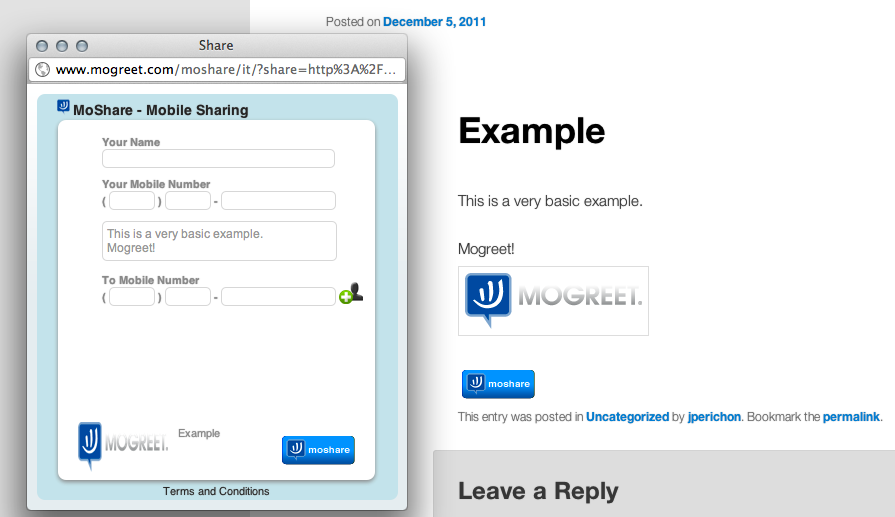
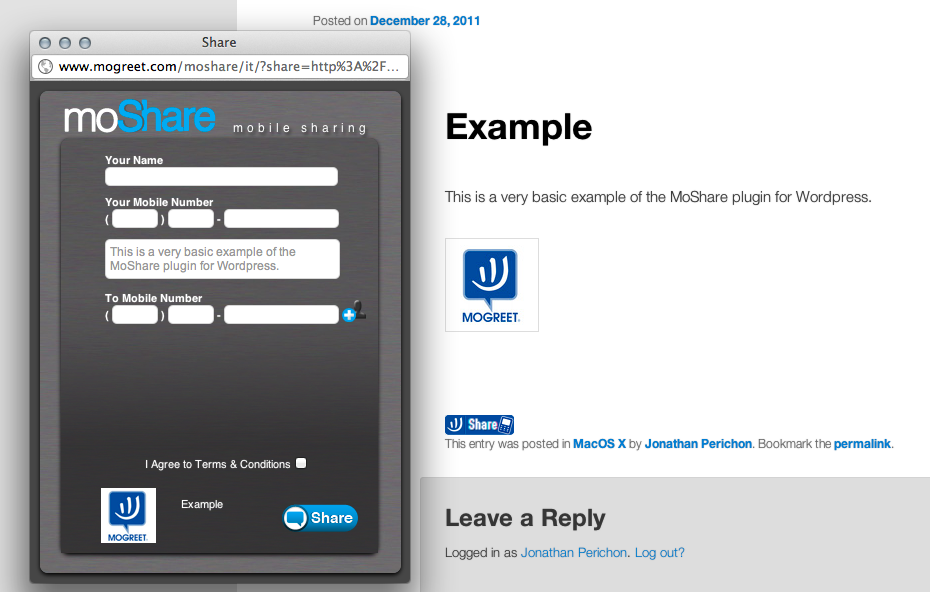
do not use smileys as thumbnails and update screenshots
git-svn-id: https://plugins.svn.wordpress.org/moshare/trunk@481670 b8457f37-d9ea-0310-8a92-e5e31aec5664

diff --git a/moshare.php b/moshare.php
@@ -9,7 +9,7 @@
     Contributors :
         Jonathan Perichon <jonathan.perichon@gmail.com>
     License: GPL2
-*/
+ */
 
 /*  Copyright 2011  Mogreet
 
@@ -25,7 +25,7 @@
     You should have received a copy of the GNU General Public License
     along with this program; if not, write to the Free Software
     Foundation, Inc., 51 Franklin St, Fifth Floor, Boston, MA  02110-1301  USA
-*/
+ */
 
 define("MAX_LENGTH_DESCRIPTION", 1000);
 
@@ -48,8 +48,13 @@ function moshare_add_widget($content) {
     $description = preg_replace('/\\\"/', '&quot;', $description);
 
     $first_img   = '';
-    if (preg_match('/<img.+src=[\'"]([^\'"]+)[\'"].*>/i', $content, $matches) > 0) {
-      $first_img   = $matches[1];
+    $doc = DOMDocument::loadHTML($content);
+    $images = $doc->getElementsByTagName("img");
+    foreach ($images as $image) {
+        if ($image->getAttribute('class') != "wp-smiley") {
+            $first_img = $image->getAttribute('src');
+            break;
+        }
     }
 
     $logo = get_option('moshare_icon');
@@ -59,7 +64,7 @@ function moshare_add_widget($content) {
     $cid  = get_option('moshare_cid');
 
     $html = "<a href='http://www.mogreet.com/moshare/it/' class='$logo'"
-        . " data-description='$description' data-url='$url' data-type='article'"
+        . " data-description='$description' data-type='article'"
         . " data-location='$url' data-title='$title'";
 
     if ($first_img != '') {
@@ -89,27 +94,27 @@ function moshare_options_form() {
         <h2>'.__('MoShare Options', 'moshare').'</h2>
         <div style="padding:10px;border:1px solid #aaa;background-color:#9fde33;text-align:center;display:none;" id="moshare_updated">Your options were successfully updated</div>
         <form id="ak_moshare" name="ak_moshare" action="' . get_bloginfo('wpurl') .'/wp-admin/index.php">
-          <fieldset class="options">
-             <h3>Pick up your style</h3>
-             <input type="radio" name="moshare_icon" value="moshare-button" '. $classic .' /> <img src="http://www.mogreet.com/moshare/embed/moshare.png"/>
-             <input type="radio" name="moshare_icon" value="moshare-button-mini"'. $mini .' /> <img src="http://www.mogreet.com/moshare/embed/moshare_chicklet.png"/>
-             <h3>Set up your campaign ID (not required)</h3>
-             <input type="text" name="moshare_cid" value="'. $cid .'" />
-          </fieldset>
-          <br/>
-             <input type="submit" name="submit_button" value="'.__('Update MoShare Options', 'moshare').'" />
-             <input type="hidden" name="moshare_action" value="moshare_update_settings" />
-		 </form></div>';
+        <fieldset class="options">
+        <h3>Pick up your style</h3>
+        <input type="radio" name="moshare_icon" value="moshare-button" '. $classic .' /> <img src="http://www.mogreet.com/moshare/embed/moshare.png"/>
+        <input type="radio" name="moshare_icon" value="moshare-button-mini"'. $mini .' /> <img src="http://www.mogreet.com/moshare/embed/moshare_chicklet.png"/>
+        <h3>Set up your campaign ID (not required)</h3>
+        <input type="text" name="moshare_cid" value="'. $cid .'" />
+        </fieldset>
+        <br/>
+        <input type="submit" name="submit_button" value="'.__('Update MoShare Options', 'moshare').'" />
+        <input type="hidden" name="moshare_action" value="moshare_update_settings" />
+        </form></div>';
 }
 
 function moshare_menu_items() {
-		add_options_page(
-            __('MoShare Options', 'moshare')
-            , __('MoShare', 'moshare')
-            , manage_options
-            , basename(__FILE__)
-            , 'moshare_options_form'
-		);
+    add_options_page(
+        __('MoShare Options', 'moshare')
+        , __('MoShare', 'moshare')
+        , manage_options
+        , basename(__FILE__)
+        , 'moshare_options_form'
+    );
 } 
 
 /**
@@ -132,7 +137,7 @@ function moshare_request_handler() {
  * Includes the MoShare JavaScript once per page
  */
 function moshare_scripts() {
-     wp_enqueue_script("moshare", "http://www.mogreet.com/moshare/embed/moshare.js", array(), "1.0", true);
+    wp_enqueue_script("moshare", "http://www.mogreet.com/moshare/embed/moshare.js", array(), "1.0", true);
 }
 
 add_action('admin_menu', 'moshare_menu_items');
